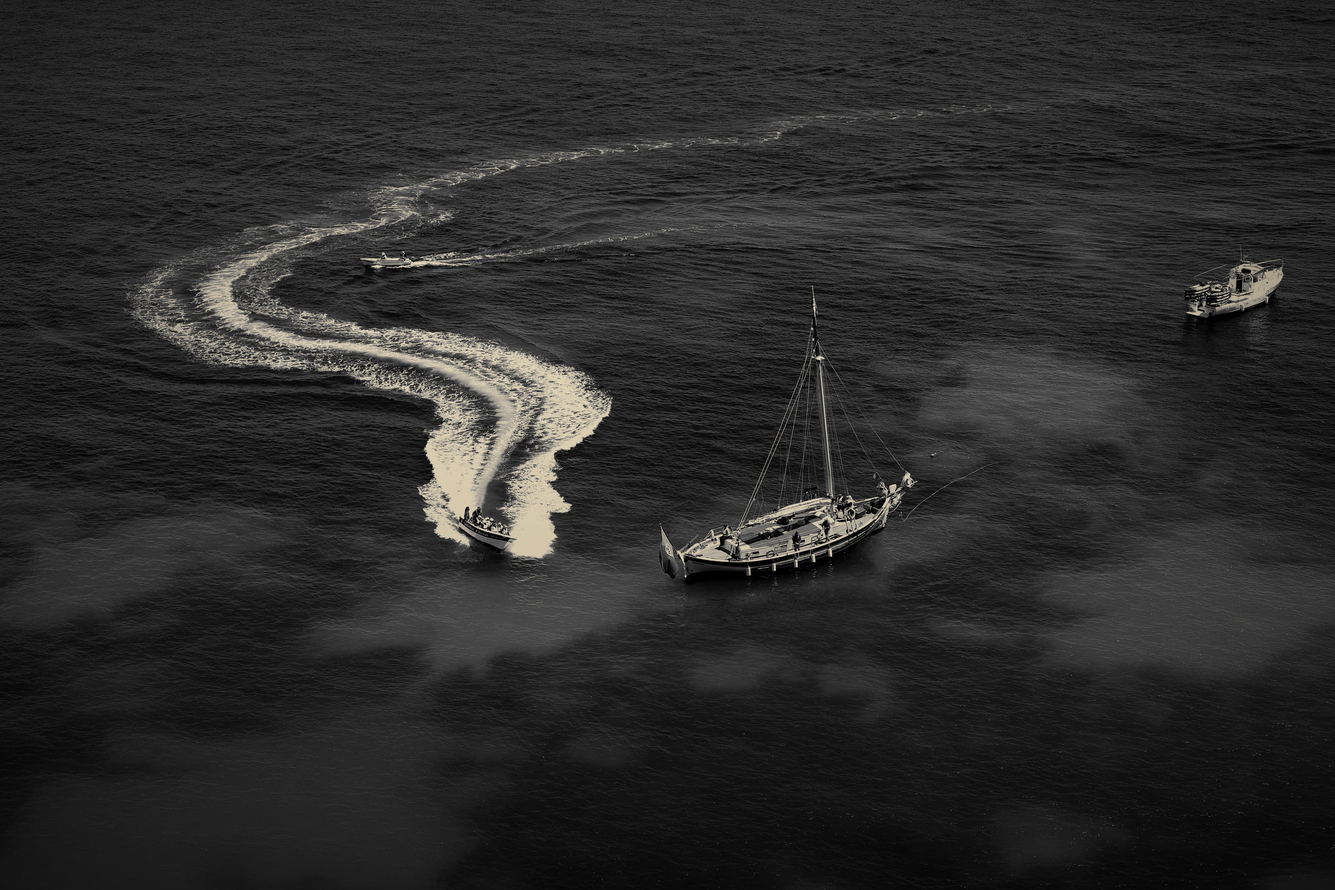
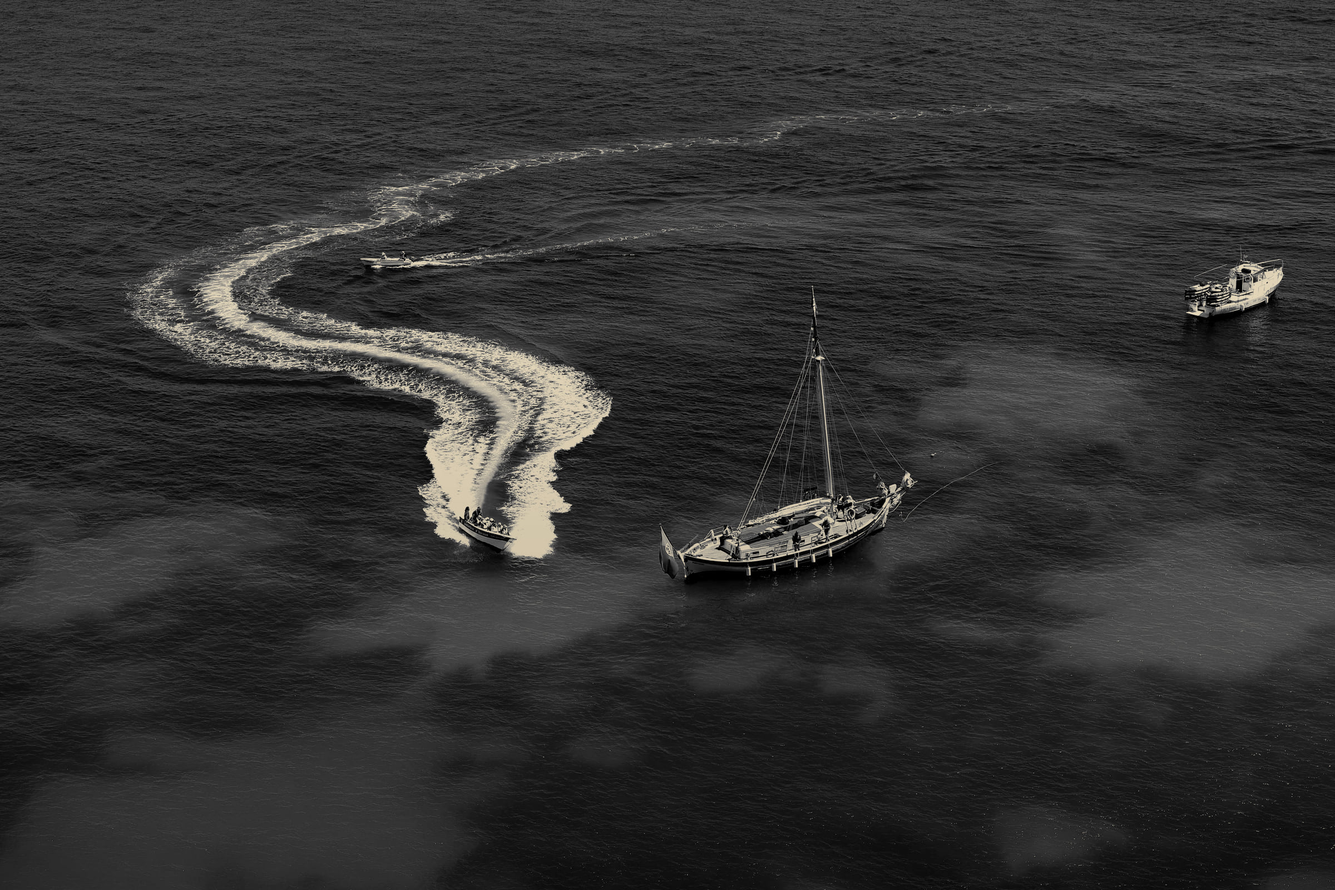
Soften hero vignette and center the hero copy
The vignette in grade-hero.mjs was closing in hard enough that the
right third of the frame, where the wake and second boat sit, faded
to near black. Pushed the radius out and cut the max opacity so the
water reads unbroken corner to corner, with just enough falloff to
keep the frame from ending on a hard edge.

With the full width of the water now visible, left-pinned copy read
oddly off-center. Centered the eyebrow, headline, subhead and CTAs
as a block. The boats and their wake sit in the top two thirds of
this photograph, so the lower band where the copy already lived
stays clear of the subject either way.

Centering also made the old left-weighted horizontal scrim pointless
it would now darken one side of the photograph for no reason while
leaving the other side of the centered text under-covered, so it's
gone. The rem-sized bottom pedestal was already carrying the actual
contrast work; re-verified all 15 measurements in
check-hero-contrast.mjs still clear 4.5:1 with it gone.

Claude-Session: https://claude.ai/code/session_014VtyYAfV41Caki7dVaU5Vv

diff --git a/src/components/Hero.tsx b/src/components/Hero.tsx
@@ -63,7 +63,7 @@ export function Hero() {
       </motion.div>
 
       {/*
-        Three scrims.
+        Two scrims.
 
         The pedestal is the one doing the real work, and it is sized in rem,
         not percent. A percentage-height gradient looked right at 900px tall
@@ -97,9 +97,16 @@ export function Hero() {
         miss, and this pedestal is sized against that script, not a
         screenshot. Re-run it after touching any number here.
 
-        The ambient top wash and the left-weighted horizontal pass are
-        unchanged: still percentage-based, because nothing rem-sized sits up
-        there for a fixed size to fight.
+        The ambient top wash is unchanged: still percentage-based, because
+        nothing rem-sized sits up there for a fixed size to fight.
+
+        There used to be a third, left-weighted horizontal pass here, from
+        when the copy sat pinned to the left edge. Now that the copy is
+        centered, a lopsided full-height wash would darken one side of the
+        photograph for no reason and still leave the other side of the
+        centered text under-covered. The pedestal alone carries the copy;
+        everything above it is left as close to untouched as contrast
+        allows.
       */}
       <div
         aria-hidden
@@ -109,12 +116,17 @@ export function Hero() {
         aria-hidden
         className="absolute inset-x-0 bottom-0 z-0 h-[38rem] bg-gradient-to-t from-ink from-0% via-ink/85 via-75% to-transparent to-100% lg:h-[44rem]"
       />
-      <div
-        aria-hidden
-        className="absolute inset-0 z-0 bg-gradient-to-r from-ink via-ink/45 to-transparent"
-      />
 
-      <div className="relative z-10 mx-auto w-full max-w-[1400px] px-5 pb-16 pt-24 sm:px-8 sm:pb-24">
+      {/*
+        Centered rather than pinned to the left edge. The boats and their
+        wake sit in the top two thirds of this photograph and span nearly
+        its full width, so the one part of the frame that stays clear at
+        every crop is the lower band of open water: centering the copy
+        there, instead of anchoring it to the left, keeps it off the
+        subject while still reading as deliberately placed rather than
+        stranded in a corner.
+      */}
+      <div className="relative z-10 mx-auto flex w-full max-w-[1400px] flex-col items-center px-5 pb-16 pt-24 text-center sm:px-8 sm:pb-24">
         <motion.p
           /* gold-bright, not gold: this is the only eyebrow that sits on a
              photograph rather than on the page ground. See globals.css. */
